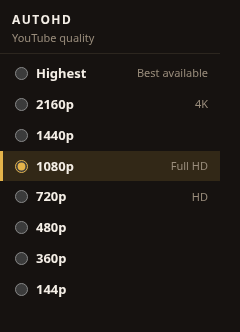
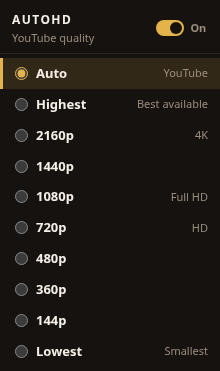
Ship 1.2.1 with YouTube™ naming, privacy policy, and switch style fix
The popup On switch no longer inherits the selected quality-row
styles. The 128 icon uses the 16px padding Chrome expects. Privacy
policy is PRIVACY.md.

diff --git a/popup.css b/popup.css
@@ -115,7 +115,7 @@ form {
   padding: 4px 0;
 }
 
-label {
+form label {
   display: grid;
   grid-template-columns: auto 1fr auto;
   align-items: center;
@@ -125,12 +125,12 @@ label {
   cursor: pointer;
 }
 
-label:hover,
-label:focus-within {
+form label:hover,
+form label:focus-within {
   background: var(--hover);
 }
 
-label:has(input:checked) {
+form label:has(input:checked) {
   background: var(--gold-dim);
   border-left-color: var(--gold);
 }

diff --git a/scripts/make-icons.py b/scripts/make-icons.py
@@ -18,6 +18,13 @@ def rounded_rect(draw: ImageDraw.ImageDraw, box: list[int], radius: int, **kwarg
 
 
 def make_icon(size: int) -> Image.Image:
+    # Chrome Web Store wants ~96x96 artwork inside the 128 canvas (16px padding).
+    if size == 128:
+        art = make_icon(96)
+        canvas = Image.new("RGBA", (128, 128), (0, 0, 0, 0))
+        canvas.paste(art, (16, 16), art)
+        return canvas
+
     image = Image.new("RGBA", (size, size), (0, 0, 0, 0))
     draw = ImageDraw.Draw(image)
     pad = max(1, round(size * 0.06))

diff --git a/PRIVACY.md b/PRIVACY.md
@@ -1,0 +1,86 @@
+# Privacy policy for AutoHD for YouTube™
+
+**Last updated:** 21 August 2026
+
+AutoHD is a Chrome extension that locks YouTube™ playback quality to the option you pick. It is open source ([MIT](LICENSE)) and has no backend.
+
+This policy describes what the extension handles, including data that never leaves your browser.
+
+## Who we are
+
+The publisher is the AutoHD project at [github.com/Batuhan4/autohd-youtube](https://github.com/Batuhan4/autohd-youtube). The extension does not have a company server, analytics vendor, or account system.
+
+## What AutoHD stores
+
+Only two values, both chosen by you in the toolbar popup:
+
+| Value | Meaning | Default |
+| --- | --- | --- |
+| `quality` | Auto, Highest, Lowest, or a fixed rung (2160p–144p) | Auto |
+| `enabled` | On or Off | On |
+
+They are saved with Chrome’s `storage.sync` API so the same choice can follow a signed-in Chrome profile to your other devices. Google operates that sync as part of Chrome. **The AutoHD publisher cannot read these values.** We do not run a server that receives them.
+
+You can change or clear them at any time: pick another quality, turn the switch Off, or remove the extension.
+
+## What AutoHD reads on YouTube
+
+On `youtube.com` watch pages only, a content script talks to YouTube’s player so it can:
+
+- read the qualities that video actually offers
+- apply the quality you selected (or restore Auto when you choose Auto or turn AutoHD off)
+
+That player information is used in memory to pick a matching quality. It is not stored, and it is not sent to the publisher or to anyone else.
+
+AutoHD does not run on other websites. It does not inject into YouTube embeds on other sites.
+
+## What AutoHD does not collect
+
+AutoHD does not collect, transmit, or sell:
+
+- name, email, phone, or other identity data
+- account credentials, cookies, or authentication tokens
+- watch history, search history, or browsing history
+- video titles, page URLs, or page HTML (beyond calling the player’s quality APIs on youtube.com)
+- location, health, financial, or payment data
+- analytics, advertising identifiers, or crash reports
+
+There is no remote code, no third-party script, and no network request from the extension to a developer-controlled host.
+
+## How the data is used (limited use)
+
+The stored preference is used for one purpose: applying your chosen YouTube playback quality, or leaving YouTube in control when the extension is Off or set to Auto.
+
+It is not used for advertising, profiling, or any other product. It is not transferred to other parties except:
+
+- Chrome sync, if you are signed into Chrome (operated by Google, not by AutoHD)
+- when required by law
+
+No human at AutoHD can read your preference, because it never reaches us.
+
+## Permissions
+
+| Permission | Why |
+| --- | --- |
+| `storage` | Save quality and the On/Off switch. |
+| Content scripts on `youtube.com`, `www.youtube.com`, and `m.youtube.com` | Apply that choice to the YouTube player. |
+
+The extension does not request `tabs`, `<all_urls>`, cookies, history, or host access outside YouTube.
+
+## Security
+
+There is no AutoHD server to breach. Settings stay in Chrome storage on your device (and in Chrome sync if you use it). The store package contains all extension code; nothing is downloaded at runtime.
+
+## Children
+
+AutoHD is not directed at children and does not knowingly collect personal information from anyone.
+
+## Changes
+
+If this policy changes, it will be updated in this file with a new date. The live copy is always this document in the public repository.
+
+## Contact
+
+Open an issue: [github.com/Batuhan4/autohd-youtube/issues](https://github.com/Batuhan4/autohd-youtube/issues)
+
+YouTube is a trademark of Google LLC. AutoHD is not affiliated with YouTube or Google.

diff --git a/README.md b/README.md
@@ -1,4 +1,4 @@
-# AutoHD for YouTube
+# AutoHD for YouTube™
 
 A tiny Chrome extension that keeps YouTube videos at the quality you pick.
 
@@ -27,7 +27,9 @@ If a video does not offer your choice, AutoHD selects the next-best available qu
 
 ## Install in Chrome
 
-The project is unpacked source. You load it locally:
+**From the Chrome Web Store** (after the listing is live): install from the store page, then pin AutoHD and pick a quality.
+
+**Load unpacked** for development:
 
 1. Clone this repository.
 2. Open `chrome://extensions`.
@@ -48,11 +50,14 @@ There is no `tabs`, `<all_urls>`, cookies, webRequest, or background network acc
 
 ## Privacy
 
+Full policy: [PRIVACY.md](PRIVACY.md). Short version:
+
 - No analytics, telemetry, or crash reporting.
 - No remote code.
 - No requests to third-party servers.
 - Your preference stays in `chrome.storage.sync` on your Google account / machine.
 - Content scripts are not injected into YouTube embeds on other sites.
+- The stored quality and On/Off values are used only to apply your YouTube playback choice (limited use).
 
 ## How it works
 
@@ -71,6 +76,8 @@ No build step and no npm install. The extension uses Manifest V3 APIs from curre
 node --test
 node test/e2e-cdp.mjs
 python3 scripts/make-icons.py
+python3 scripts/generate-store-assets.py
+bash scripts/pack-store.sh
 ```
 
 `test/e2e-cdp.mjs` launches a throwaway Chrome profile over the DevTools Protocol pipe (`--remote-debugging-pipe` + `--enable-unsafe-extension-debugging`), loads this unpacked extension with [`Extensions.loadUnpacked`](https://chromedevtools.github.io/devtools-protocol/tot/Extensions/#method-loadUnpacked), then checks:
@@ -96,4 +103,4 @@ YouTube Music, Studio, and `youtu.be` redirect landing pages are out of scope on
 
 [MIT](LICENSE)
 
-Not affiliated with YouTube or Google.
+YouTube is a trademark of Google LLC. Use of this trademark is subject to Google Permissions. AutoHD is not affiliated with YouTube or Google.
